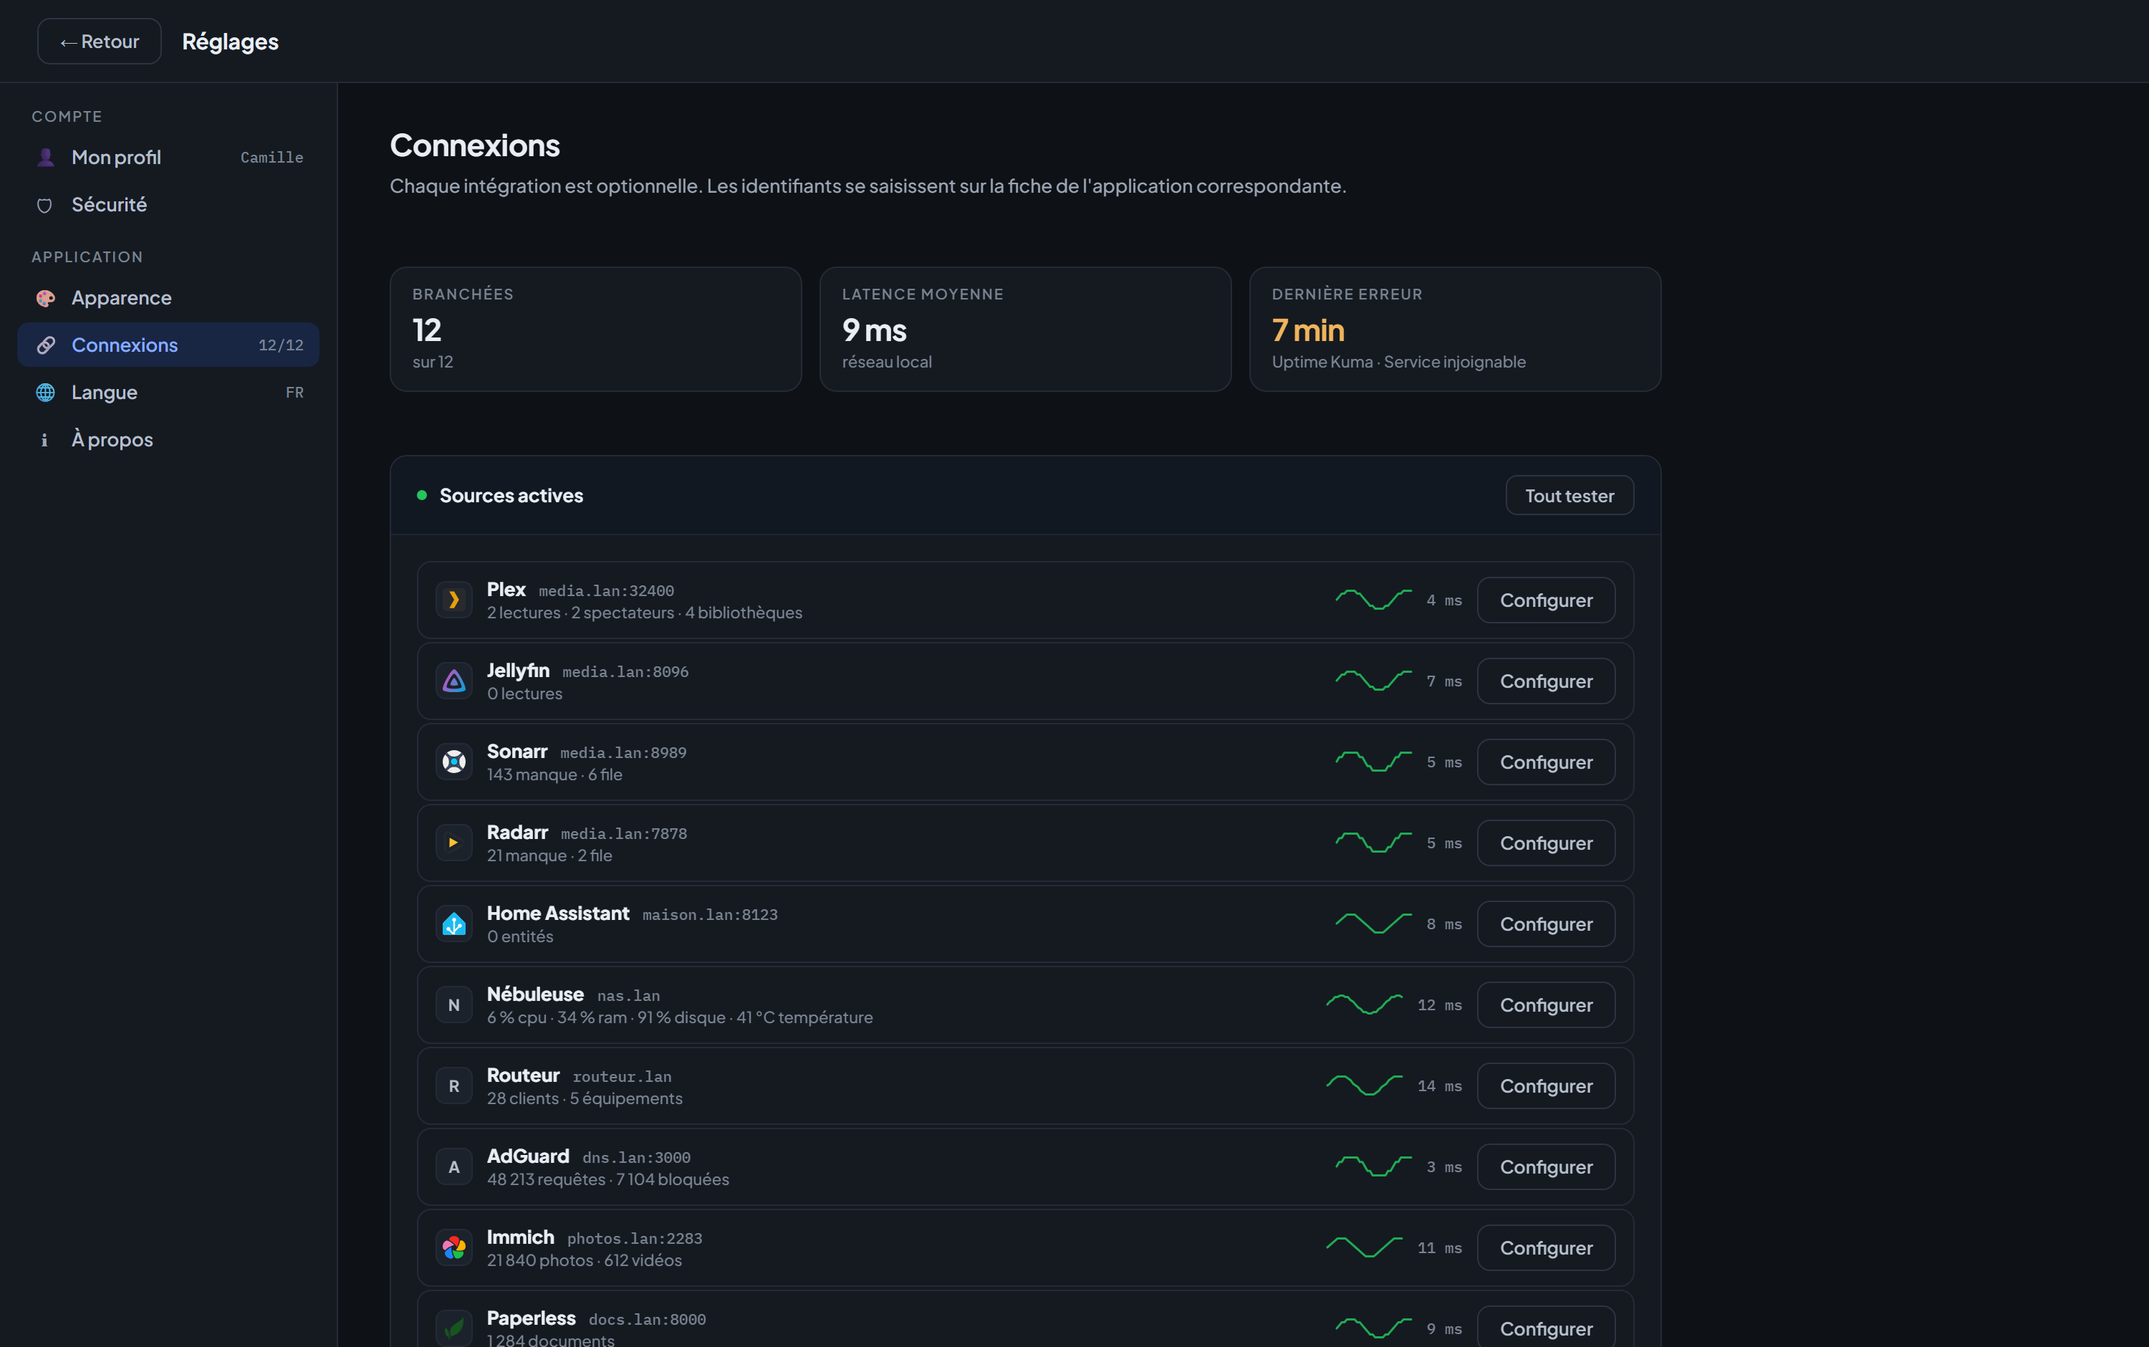
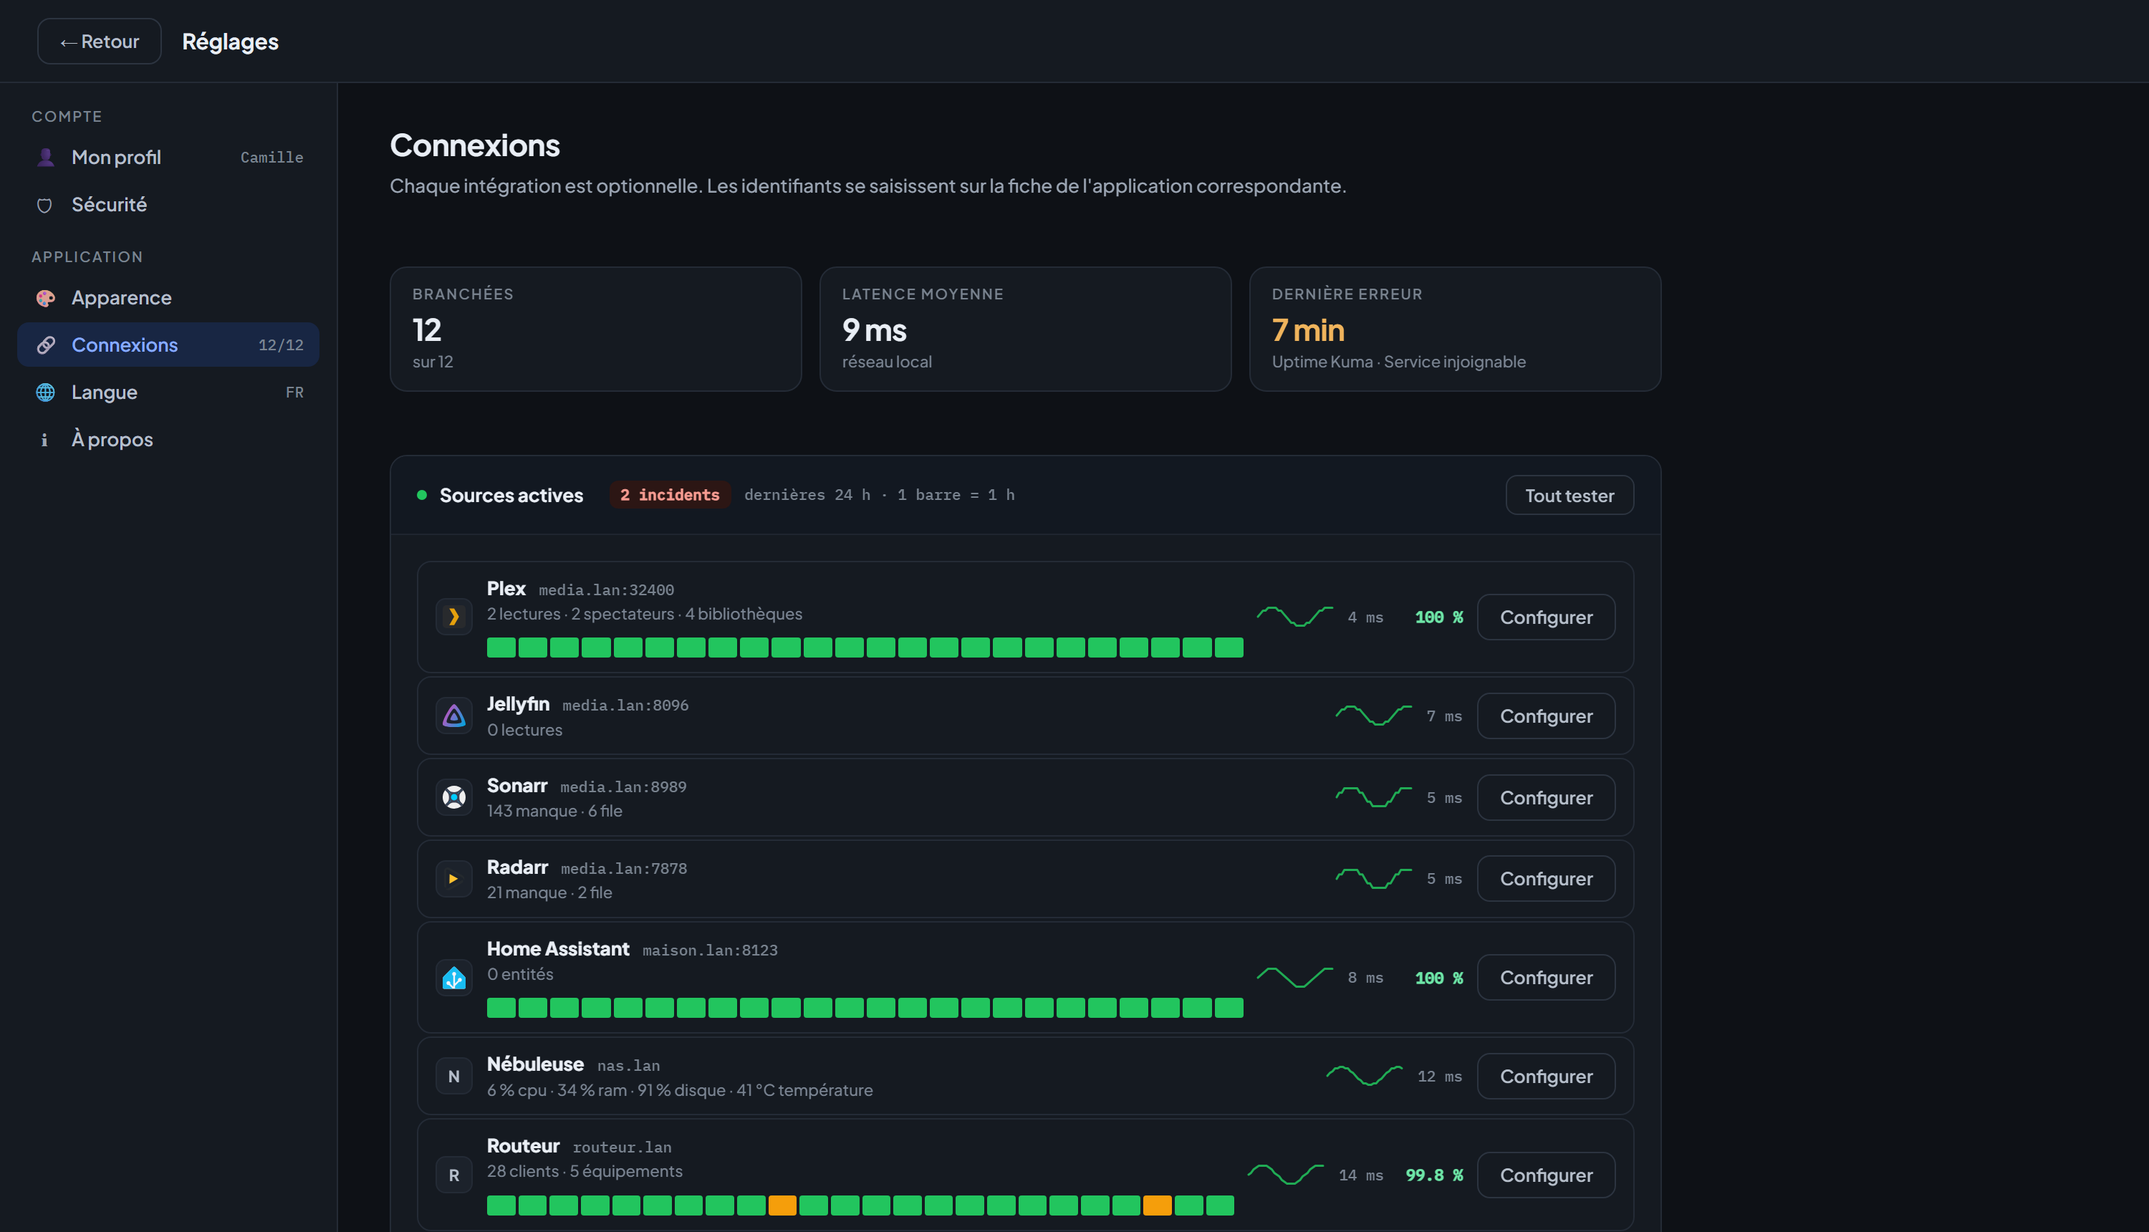
La santé des services rejoint Connexions
Le widget de cockpit était le chemin le plus court, pas le bon endroit : une
rétrospective sur vingt-quatre heures n a rien à faire dans une section
intitulée « En ce moment ». La bande descend donc dans Connexions, et pas comme
un tableau de plus : elle entre dans les lignes qui existaient déjà. C est la
même liste, au même grain — cette bande n est que la version historique de la
courbe de temps de réponse qui se trouvait déjà à droite.

Le déplacement a mis au jour deux défauts que le widget masquait.

Une source tombée disparaissait de « Sources actives » pour se ranger parmi
celles « à brancher ». Le seul service en panne était donc le seul introuvable,
et sa bande — celle qui montre précisément la coupure — restait invisible. Une
source qui a déjà livré des mesures reste une source, même muette aujourd hui.

La page ne listait que les intégrations. Or l historique couvre tout ce qui est
sondé : une application avec une simple URL est surveillée comme les autres. Un
reverse proxy n aurait jamais montré sa disponibilité. Ces services entrent
maintenant dans la liste, avec la mention « surveillance seule ».

La légende ne s affiche que s il y a au moins une bande à expliquer.

diff --git a/app/static/index.html b/app/static/index.html
@@ -179,33 +179,25 @@ summary:focus-visible,[tabindex]:focus-visible{
    vécu, pas ce qu'elle vaut — vert, aucune sonde en échec ; orange, au moins
    une ; rouge, la majorité. Une heure sans mesure reste creuse : « pas
    observé » et « aucune réponse » ne se ressemblent pas. */
-/* Vingt-quatre barres pour cinq services ne tiennent pas dans une carte de
-   trois cent soixante pixels : celle-ci prend la rangée entière. */
-.featured > .cock[data-w="sante"]{flex:1 1 100%;max-width:none}
+.tete-sante{display:flex;align-items:center;gap:9px;margin-left:9px}
+.tete-sante:empty{display:none}
 .puce-inc{padding:3px 8px;border-radius:6px;background:var(--bad-soft);color:var(--bad-text);
           font:600 10.5px/1.3 'IBM Plex Mono',monospace;white-space:nowrap}
 .sec-echelle{margin-left:auto;font:500 10.5px/1 'IBM Plex Mono',monospace;color:var(--muted-3);
              white-space:nowrap}
-.sante{display:flex;flex-direction:column;gap:0}
-.sante-l{display:grid;grid-template-columns:26px minmax(84px,150px) 1fr auto;
-         align-items:center;gap:12px;padding:9px 0;border-top:1px solid var(--divider)}
-.sante-l:first-child{border-top:0}
-.sante-l .nom{font:600 12.5px/1.2 'Plus Jakarta Sans',sans-serif;color:var(--text-2);
-              overflow:hidden;text-overflow:ellipsis;white-space:nowrap}
-.sante-b{display:flex;gap:3px;min-width:0}
-.sante-b i{flex:1 1 0;min-width:3px;height:20px;border-radius:3px;background:var(--ok)}
+.sante-b{display:flex;gap:2px;min-width:0;margin-top:7px}
+.sante-b i{flex:1 1 0;min-width:3px;height:14px;border-radius:2px;background:var(--ok)}
 .sante-b i.orange{background:var(--warn)}
 .sante-b i.rouge{background:var(--bad)}
 /* Le creux se voit sans se faire passer pour une panne. */
 .sante-b i.creux{background:var(--divider);opacity:.55}
 .sante-pc{font:600 11px/1 'IBM Plex Mono',monospace;color:var(--ok-text);
-          white-space:nowrap;min-width:46px;text-align:right}
+          white-space:nowrap;min-width:44px;text-align:right}
 .sante-pc.moyen{color:var(--warn-text)}
 .sante-pc.bas{color:var(--bad-text)}
 .sante-pc.vide{color:var(--muted-3)}
-.sante-pied{display:flex;align-items:baseline;gap:8px;margin-top:11px;
-            font:500 10.5px/1.4 'Plus Jakarta Sans',sans-serif;color:var(--muted-3)}
-@media (max-width:760px){ .sante-l{grid-template-columns:22px minmax(70px,1fr) 2fr auto;gap:9px} }
+.sante-pied{margin-top:4px;font:500 10.5px/1.5 'Plus Jakarta Sans',sans-serif;
+            color:var(--muted-3)}
 .cock-anneaux{flex:1;display:flex;align-items:center;justify-content:space-around;gap:8px;margin:10px 0 4px;min-height:96px}
 .cock-anneaux:empty{display:none}
 .anneau{display:flex;flex-direction:column;align-items:center;gap:9px}
@@ -1052,6 +1044,7 @@ a.card:hover{box-shadow:var(--sh-hover);border-color:var(--accent-border);transf
 .scard > h4 .aide{margin-left:auto;font:500 10.5px/1 'Plus Jakarta Sans',sans-serif;color:var(--muted-3)}
 .scard > h4 .btn-sm{margin-left:auto}
 .conn-hote{font:500 10.5px/1 'IBM Plex Mono',monospace;color:var(--muted-3)}
+.conn-row .cr-nom{flex:1;min-width:0;display:flex;flex-direction:column;gap:3px}
 .conn-detail{font:500 11px/1.3 'Plus Jakarta Sans',sans-serif;color:var(--muted-2)}
 .conn-mesure{margin-left:auto;display:flex;align-items:center;gap:11px}
 .conn-mesure .spark{width:52px;flex:none}
@@ -1969,9 +1962,11 @@ code{font:500 11px/1 'IBM Plex Mono',monospace;background:var(--subtle);padding:
         <div class="conn-bilan" id="conn-bilan"></div>
         <div class="scard">
           <h4><span class="pt ok"></span><span data-i18n="conn.sources">Sources actives</span>
+            <span class="tete-sante" id="conn-tete"></span>
             <button class="btn-sm" id="conn-test" type="button" data-i18n="conn.testall">Tout tester</button></h4>
           <div class="scard-body">
             <div id="conn-list" style="display:flex;flex-direction:column;gap:2px"></div>
+            <div class="sante-pied" id="conn-legende" hidden></div>
           </div>
         </div>
         <div class="scard" id="conn-dispo-card" style="margin-top:22px" hidden>
@@ -4100,97 +4095,6 @@ const REGISTRE_W = {
     icone: '🎬', cle: 'w.plex', fixe: 'px-card',
     dispo: () => !!appByKind('plex'),
   },
-  sante: {
-    icone: '📶', cle: 'w.sante',
-    /* Sans service surveillé, il n'y a rien à tracer. */
-    dispo: () => apps.some((a) => a.url),
-    large: true,
-    rendre(carte) {
-      if (!HISTO) { chargerHistorique(); return true; }
-      const noms = Object.keys(HISTO.services || {});
-      if (!noms.length) return false;
-
-      /* Le gabarit a déjà posé l'icône et le titre : on ne complète que la
-         ligne d'entête, avec le nombre d'incidents et l'échelle. */
-      const total = noms.reduce((n, k) => n + (HISTO.services[k].incidents || 0), 0);
-      const ligne = carte.querySelector('.chip-row');
-      if (total) {
-        const p = document.createElement('span');
-        p.className = 'puce-inc';
-        p.textContent = t(total > 1 ? 'sante.incidents' : 'sante.incident', { n: total });
-        ligne.appendChild(p);
-      }
-      const ech = document.createElement('span');
-      ech.className = 'sec-echelle';
-      ech.textContent = t('sante.echelle', { n: HISTO.heures });
-      ligne.appendChild(ech);
-
-      const zone = document.createElement('div');
-      zone.className = 'sante';
-      /* Les services qui vont le moins bien en premier : c'est ce qu'on vient
-         chercher. À égalité, l'ordre de la configuration. */
-      noms.sort((a, b) => (HISTO.services[a].dispo == null ? 101 : HISTO.services[a].dispo)
-                        - (HISTO.services[b].dispo == null ? 101 : HISTO.services[b].dispo));
-      noms.forEach((nom) => {
-        const r = HISTO.services[nom];
-        const app = apps.find((a) => a.nom === nom);
-        const l = document.createElement('div');
-        l.className = 'sante-l';
-
-        const chip = document.createElement('span');
-        chip.className = 'logo-chip s26';
-        const cl = document.createElement('span');
-        cl.className = 'cl';
-        cl.textContent = (nom[0] || '?').toUpperCase();
-        chip.appendChild(cl);
-        if (app) mountLogo(chip, logoDe(app));
-
-        const n = document.createElement('span');
-        n.className = 'nom';
-        n.textContent = nom;
-
-        const barres = document.createElement('span');
-        barres.className = 'sante-b';
-        r.seaux.forEach((seau, i) => {
-          const b = document.createElement('i');
-          const recul = r.seaux.length - 1 - i;
-          if (!seau) {
-            b.className = 'creux';
-            b.title = t('sante.creux', { q: t('sante.ilya', { n: recul }) });
-          } else {
-            const [sondes, echecs] = seau;
-            if (echecs * 2 > sondes) b.className = 'rouge';
-            else if (echecs) b.className = 'orange';
-            b.title = t('sante.detail',
-                        { q: t('sante.ilya', { n: recul }), e: echecs, s: sondes });
-          }
-          barres.appendChild(b);
-        });
-
-        const pc = document.createElement('span');
-        pc.className = 'sante-pc ' + (r.dispo == null ? 'vide'
-          : r.dispo >= 99 ? '' : r.dispo >= 95 ? 'moyen' : 'bas');
-        pc.textContent = r.dispo == null ? '—' : r.dispo + ' %';
-        /* Une disponibilité sur trois heures ne se présente pas comme une
-           disponibilité sur vingt-quatre. */
-        pc.title = r.heures < HISTO.heures
-          ? t('sante.partiel', { n: r.heures }) : t('sante.complet', { n: r.heures });
-
-        l.appendChild(chip);
-        l.appendChild(n);
-        l.appendChild(barres);
-        l.appendChild(pc);
-        zone.appendChild(l);
-      });
-      carte.appendChild(zone);
-
-      const pied = document.createElement('div');
-      pied.className = 'sante-pied';
-      pied.textContent = t('sante.pied');
-      carte.appendChild(pied);
-      return true;
-    },
-  },
   alertes: {
     icone: '🚨', cle: 'w.alertes',
     dispo: () => true,
@@ -4331,7 +4235,7 @@ const REGISTRE_W = {
     },
   },
 };
-const WIDGETS_DEFAUT = ['media', 'maison', 'serveur', 'plex', 'sante'];
+const WIDGETS_DEFAUT = ['media', 'maison', 'serveur', 'plex'];
 const CARTES_FIXES = ['np-card', 'haw-card', 'srv-card', 'px-card'];
 
 /* ---------- disposition automatique ----------
@@ -6437,10 +6341,52 @@ $('np-config').addEventListener('click', (e) => {
 });
 
 /* connexions : état des sources */
+/* La bande des vingt-quatre heures d'un service. Elle vit dans la ligne de
+   Connexions plutôt que dans une carte à part : c'est la même liste, au même
+   grain, et cette bande n'est que la version historique de la courbe de temps
+   de réponse qui se trouve déjà à droite. */
+function bandeSante(nom) {
+  const r = HISTO && HISTO.services && HISTO.services[nom];
+  if (!r || !r.seaux) return null;
+  const bande = document.createElement('span');
+  bande.className = 'sante-b';
+  r.seaux.forEach((seau, i) => {
+    const b = document.createElement('i');
+    const recul = r.seaux.length - 1 - i;
+    if (!seau) {
+      b.className = 'creux';
+      b.title = t('sante.creux', { q: t('sante.ilya', { n: recul }) });
+    } else {
+      const [sondes, echecs] = seau;
+      if (echecs * 2 > sondes) b.className = 'rouge';
+      else if (echecs) b.className = 'orange';
+      b.title = t('sante.detail', { q: t('sante.ilya', { n: recul }), e: echecs, s: sondes });
+    }
+    bande.appendChild(b);
+  });
+  return bande;
+}
+
+function pourcentSante(nom) {
+  const r = HISTO && HISTO.services && HISTO.services[nom];
+  if (!r || r.dispo == null) return null;
+  const pc = document.createElement('span');
+  pc.className = 'sante-pc ' + (r.dispo >= 99 ? '' : r.dispo >= 95 ? 'moyen' : 'bas');
+  pc.textContent = r.dispo + ' %';
+  /* Une disponibilité sur trois heures ne se présente pas comme une
+     disponibilité sur vingt-quatre. */
+  pc.title = r.heures < HISTO.heures
+    ? t('sante.partiel', { n: r.heures }) : t('sante.complet', { n: r.heures });
+  return pc;
+}
+
 function renderConnPanel() {
   const list = $('conn-list');
   if (!list || $('spage').hidden || $('sp-conn').hidden) return;
   list.textContent = '';
+  /* L'historique se charge au premier affichage puis se garde : il change
+     d'une heure à l'autre, pas d'une seconde à l'autre. */
+  if (!HISTO) chargerHistorique().then(renderConnPanel);
 
   /* Une source est « branchée » quand elle a effectivement livré des mesures.
      C'est la seule preuve qui vaille, et elle marche pour les vingt-deux types
@@ -6449,6 +6395,9 @@ function renderConnPanel() {
      ne marche pas quand ça ne marche pas. */
   const detail = (kind, nom) => {
     const n = (STATS[nom] || []).length;
+    /* Sans intégration, il n'y a rien à remonter : on le dit plutôt que de
+       laisser croire à une clé manquante. */
+    if (!kind) return t('conn.urlonly');
     if (kind === 'ha') {
       return CONN === 'ok' ? t('conn.entities', { n: STATES.length })
            : (CONN === 'error' ? CONN_ERR : t('conn.notoken'));
@@ -6458,13 +6407,26 @@ function renderConnPanel() {
     return err || t('conn.notset');
   };
   const branchee = (kind, nom) => {
+    /* Une source déjà branchée qui vient de tomber reste une source branchée.
+       Sans cette mémoire, le seul service en panne serait celui qui disparaît
+       de la liste pour se retrouver parmi ceux « à brancher » — exactement là
+       où on ne le cherche pas, et sans sa bande de disponibilité qui montre
+       pourtant la coupure. */
+    const vu = HISTO && HISTO.services && (HISTO.services[nom] || {}).sondes;
+    if (vu) return true;
+    if (!kind) return false;      // surveillée seule : elle attend son premier relevé
     if (kind === 'ha') return CONN === 'ok';
     if ((STATS[nom] || []).length) return true;
     /* certaines intégrations répondent sans rien à mesurer sur l'instant */
     return kind === 'plex' ? !!DIRECT.plexOk : !!DIRECT[kind];
   };
 
-  const sources = apps.map((a) => ({ app: a, kind: kindOfApp(a) })).filter((x) => x.kind);
+  /* La page ne listait que les intégrations. Maintenant qu'elle porte la
+     disponibilité, elle doit couvrir tout ce qui est surveillé : une
+     application avec une simple URL est sondée comme les autres, elle a une
+     bande, et la cacher reviendrait à perdre son historique. */
+  const sources = apps.map((a) => ({ app: a, kind: kindOfApp(a) }))
+    .filter((x) => x.kind || (x.app.url || '').trim());
   const actives = sources.filter((x) => branchee(x.kind, x.app.nom));
   const dormantes = sources.filter((x) => !branchee(x.kind, x.app.nom));
 
@@ -6508,6 +6470,25 @@ function renderConnPanel() {
     v.textContent = t('conn.none');
     list.appendChild(v);
   }
+  /* L'entête annonce ce que la bande couvre et combien de coupures s'y
+     trouvent ; sans quoi les couleurs ne veulent rien dire. */
+  const tete = $('conn-tete');
+  tete.textContent = '';
+  if (HISTO && HISTO.services) {
+    const inc = actives.reduce(
+      (n, x) => n + (((HISTO.services[x.app.nom] || {}).incidents) || 0), 0);
+    if (inc) {
+      const p = document.createElement('span');
+      p.className = 'puce-inc';
+      p.textContent = t(inc > 1 ? 'sante.incidents' : 'sante.incident', { n: inc });
+      tete.appendChild(p);
+    }
+    const e = document.createElement('span');
+    e.className = 'sec-echelle';
+    e.textContent = t('sante.echelle', { n: HISTO.heures });
+    tete.appendChild(e);
+  }
+
   actives.forEach((x) => {
     const a = x.app;
     const row = document.createElement('div');
@@ -6540,6 +6521,8 @@ function renderConnPanel() {
     bas.textContent = detail(x.kind, a.nom);
     bloc.appendChild(haut);
     bloc.appendChild(bas);
+    const bande = bandeSante(a.nom);
+    if (bande) bloc.appendChild(bande);
 
     const mesure = document.createElement('span');
     mesure.className = 'conn-mesure';
@@ -6559,6 +6542,8 @@ function renderConnPanel() {
         mesure.appendChild(l);
       }
     }
+    const pc = pourcentSante(a.nom);
+    if (pc) mesure.appendChild(pc);
     const btn = document.createElement('button');
     btn.className = 'btn-ghost';
     btn.textContent = t('conn.configure');
@@ -6573,6 +6558,14 @@ function renderConnPanel() {
     row.appendChild(btn);
     list.appendChild(row);
   });
+
+  /* La légende explique les couleurs : sans une seule bande à l'écran, elle
+     n'explique rien. */
+  const avecBande = actives.some(
+    (x) => ((HISTO && HISTO.services && HISTO.services[x.app.nom]) || {}).seaux);
+  const legende = $('conn-legende');
+  legende.hidden = !avecBande;
+  legende.textContent = avecBande ? t('sante.pied') : '';
 
   /* --- à brancher --- */
   const zone = $('conn-dispo');

diff --git a/app/static/i18n.js b/app/static/i18n.js
@@ -281,6 +281,7 @@
     'sante.partiel': 'sur {n} h observées seulement',
     'sante.complet': 'sur {n} h observées',
     'sante.pied': "Vert : aucune sonde en échec. Orange : au moins une. Rouge : la majorité. Gris : heure non observée. Une barre couvre une heure, soit 120 sondes — une coupure de quelques secondes n'y apparaît pas, le centre d'alertes s'en charge.",
+    'conn.urlonly': 'surveillance seule, aucune intégration',
     'conn.sources': 'Sources actives',
     'conn.testall': 'Tout tester',
     'conn.testing': 'Test en cours…',
@@ -875,6 +876,7 @@
     'sante.partiel': 'over {n} h observed only',
     'sante.complet': 'over {n} h observed',
     'sante.pied': 'Green: no failed probe. Amber: at least one. Red: the majority. Grey: hour not observed. One bar covers an hour, about 120 probes — a few seconds of downtime will not show here, the alert centre handles that.',
+    'conn.urlonly': 'monitoring only, no integration',
     'conn.sources': 'Active sources',
     'conn.testall': 'Test all',
     'conn.testing': 'Testing…',

diff --git a/README.md b/README.md
@@ -43,7 +43,8 @@ la liste des conteneurs avec leur consommation et de quoi les redémarrer.
 
 Une source est « branchée » quand elle a effectivement livré des mesures — c'est
 la seule preuve qui vaille. La page donne le temps de réponse de chacune, ce
-qu'elle remonte, et la raison quand ça ne marche pas.
+qu'elle remonte, la raison quand ça ne marche pas, et sa disponibilité des
+vingt-quatre dernières heures, une barre par heure.
 
 ![Les connexions](docs/connexions.png)
 
